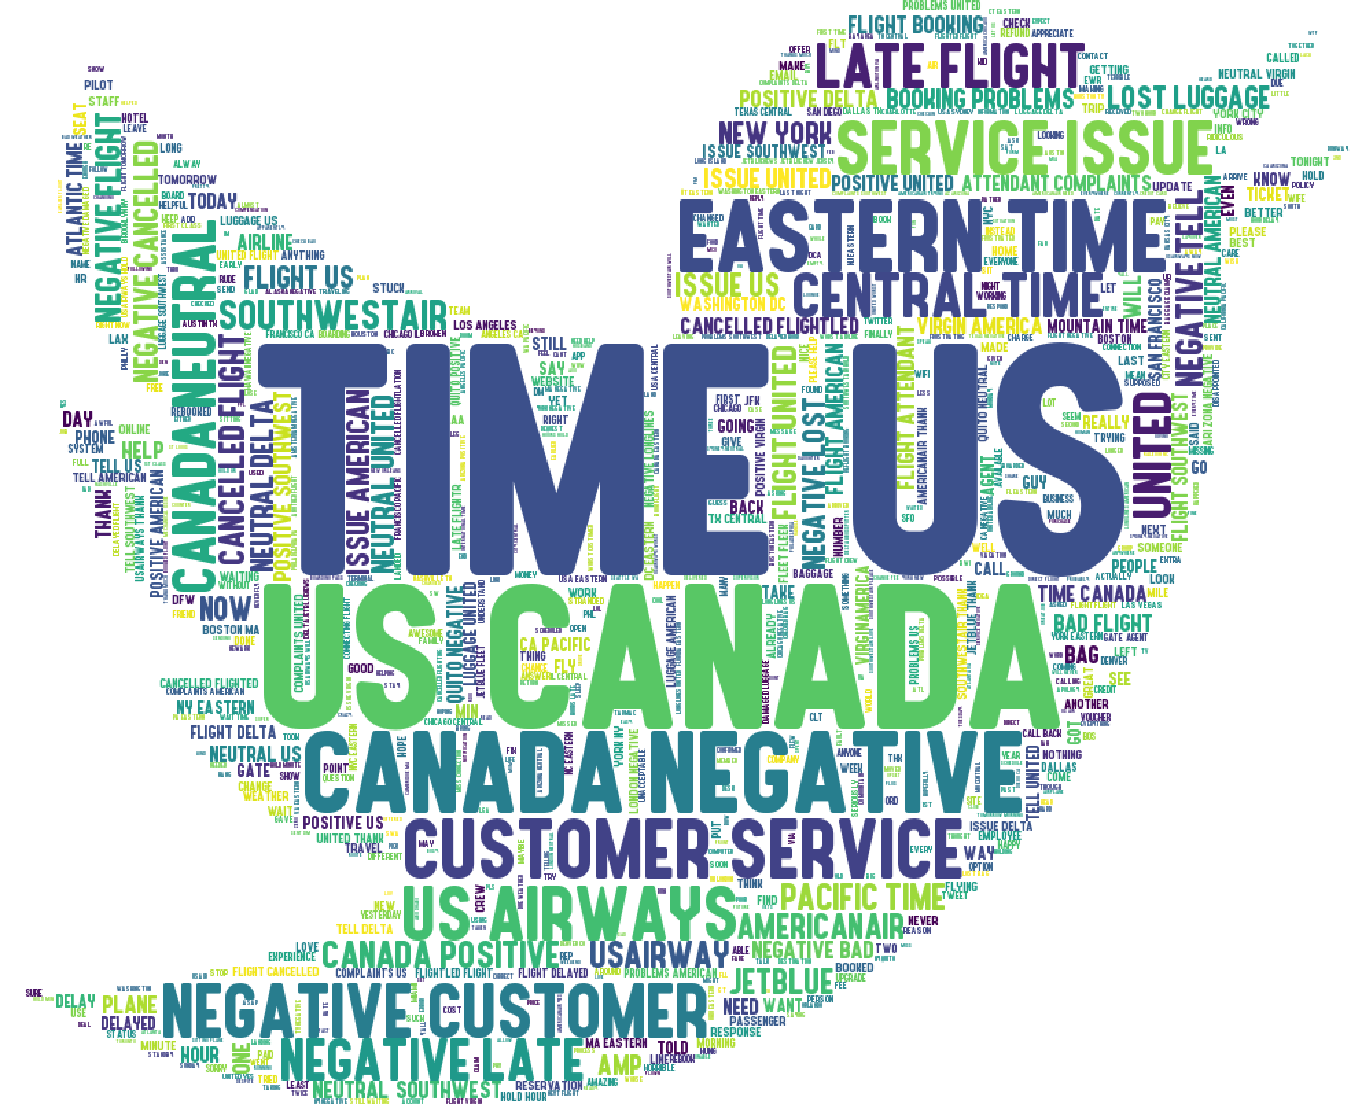
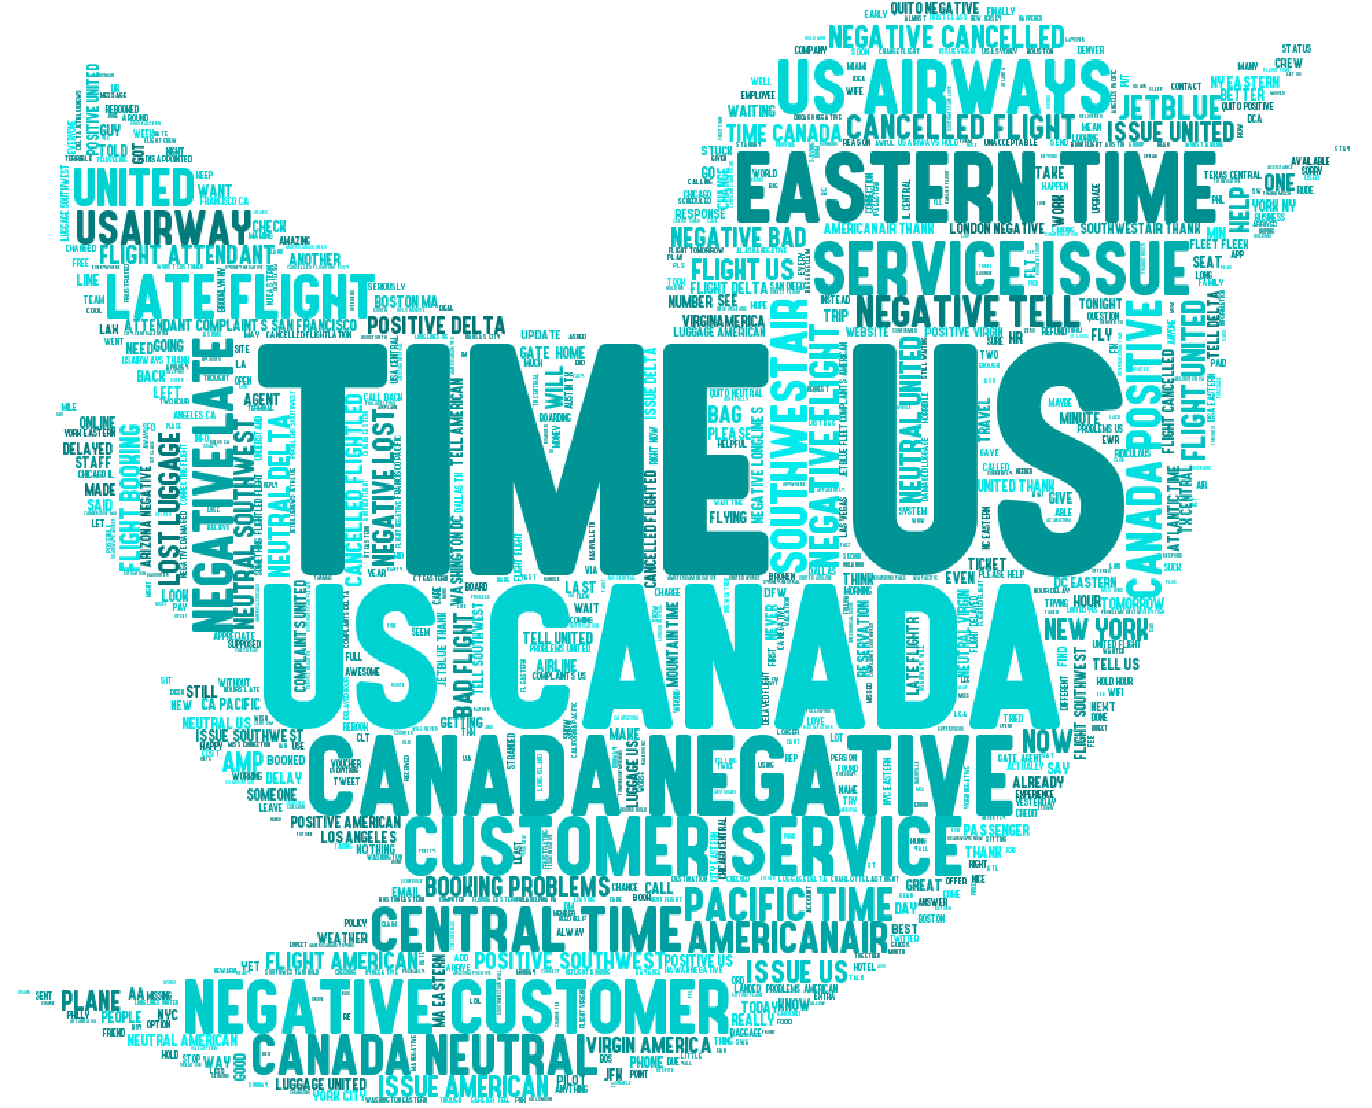
Add datetime

diff --git a/word_cloud.py b/word_cloud.py
@@ -1,27 +1,49 @@
 from wordcloud import WordCloud, STOPWORDS, ImageColorGenerator
+from datetime import datetime
 import matplotlib.pyplot as plt
 import numpy as np
 
+class wordclouds():
 
-def simple_wordcloud(text):
-    wc = WordCloud(background_color="white", max_words=2000, stopwords=STOPWORDS, max_font_size=256, random_state=42).generate(text)
-    return wc
+    def __init__(self, text, font, mask, background_color, color, color_generator=False, show=False, save=True):
+        self.text = text
+        self.font = font
+        self.mask = mask
+        self.background_color = background_color
+        self.color = color
+        self.wordcloud = None
+        self.color_generator = color_generator
+        self.show = show
+        self.save = save
 
-def show_wordcloud(wc, show=False, save=True, color_generator=False, mask=None):
-    if color_generator:
-        mask_colors = ImageColorGenerator(mask)
-        plt.imshow(wc.recolor(color_func=mask_colors), interpolation="bilinear")
-    else:
-        plt.imshow(wc)
+    def random_color_func(self, word=None, font_size=None, position=None, orientation=None, font_path=None, random_state=None):
+        h = int(self.color)
+        s = int(100.0 * 255.0 / 255.0)
+        l = int(100.0 * float(random_state.randint(60, 120)) / 255.0)
 
-    plt.axis('off')
+        return "hsl({}, {}%, {}%)".format(h, s, l)
 
-    if save:
-        plt.savefig('Result/Wordcloud.png', dpi=300, pad_inches=0, bbox_inches='tight')
+    def simple_wordcloud(self):
+        wc = WordCloud(background_color="white", max_words=2000, stopwords=STOPWORDS, max_font_size=256, random_state=42).generate(self.text)
+        return wc
 
-    if show:
-        plt.show()
+    def show_wordcloud(self, show=False, save=True, color_generator=False, mask=None):
+        if self.color_generator:
+            mask_colors = ImageColorGenerator(self.mask)
+            plt.imshow(self.wordcloud.recolor(color_func=mask_colors), interpolation="bilinear")
+        else:
+            plt.imshow(self.wordcloud)
 
-def masking_wordcloud(text, font, mask, background_color):
-    wc = WordCloud(stopwords=STOPWORDS, font_path=font, background_color=background_color, width=mask.shape[1], height=mask.shape[0], mask=mask, max_words=2000, max_font_size=256, random_state=42).generate(text)
-    return wc
+        plt.axis('off')
+
+        if save:
+            plt.savefig('Result/{}.png'.format(datetime.timestamp(datetime.now())), dpi=300, pad_inches=0, bbox_inches='tight')
+
+        if show:
+            plt.show()
+
+    def masking_wordcloud(self):
+        if self.color:
+            self.wordcloud = WordCloud(stopwords=STOPWORDS, font_path=self.font, background_color=self.background_color, width=self.mask.shape[1], height=self.mask.shape[0], mask=self.mask, max_words=2000, max_font_size=256, random_state=42, color_func=self.random_color_func).generate(self.text)
+        else:
+            self.wordcloud = WordCloud(stopwords=STOPWORDS, font_path=self.font, background_color=self.background_color, width=self.mask.shape[1], height=self.mask.shape[0], mask=self.mask, max_words=2000, max_font_size=256, random_state=42).generate(self.text)

diff --git a/main.py b/main.py
@@ -10,6 +10,8 @@ font = '/Volumes/Macbook HDD/MyProject/Python/Wordcloud/New Wordcloud/Assets/Fon
 text = preprocessing(open('/Volumes/Macbook HDD/MyProject/Python/Wordcloud/New Wordcloud/Assets/Text/sample.txt').read())
 background = 'white'
 color_generator = True
+one_color = False
+color = None
 show = False
 save = True
 
@@ -26,6 +28,8 @@ ap.add_argument("-c", "--colorgenerator", required=False,
 	help=""),
 ap.add_argument("-s", "--show", required=False,
 	help="")
+ap.add_argument("--onecolor", required=False, help="")
+ap.add_argument("--color", required=False, help="")
 args = vars(ap.parse_args())
 
 if args['text']:
@@ -39,9 +43,27 @@ if args['background']:
 if args['colorgenerator']:
     if args['colorgenerator'].lower() == 'false':
         color_generator = False
+if args['color']:
+    if args['color'].lower() == 'red':
+        color = 0
+    elif args['color'].lower() == 'orange':
+        color = 30
+    elif args['color'].lower() == 'yellow':
+        color = 60
+    elif args['color'].lower() == 'green':
+        color = 120
+    elif args['color'].lower() == 'sky':
+        color = 180
+    elif args['color'].lower() == 'blue':
+        color = 240
+    elif args['color'].lower() == 'magenta':
+        color = 300
 if args['show']:
     show = args['show']
 
-wc = masking_wordcloud(text, font, mask, background)
-show_wordcloud(wc, show=show, save=True, color_generator=color_generator, mask=mask)
+wc = wordclouds(text, font, mask, background, color, color_generator=color_generator, show=show, save=save)
+wc.masking_wordcloud()
+wc.show_wordcloud()
+# wc = masking_wordcloud(text, font, mask, background)
+# show_wordcloud(wc, show=show, save=True, color_generator=color_generator, mask=mask)
 
